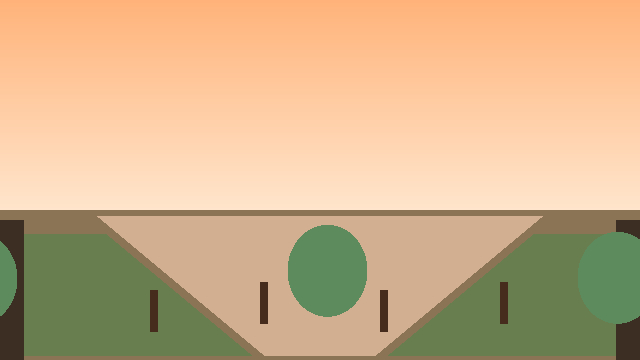
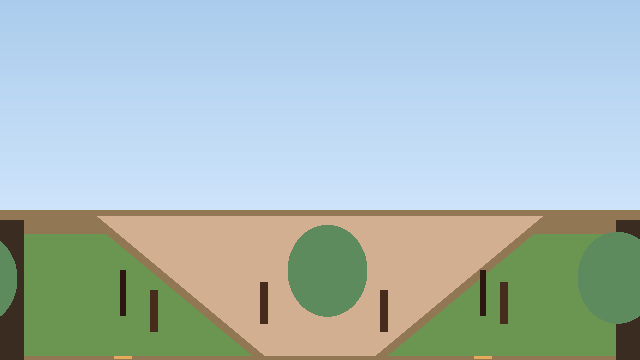
fix(alley): unified day palette + day-only drawScene + subtle lamp ground-spill

diff --git a/scripts/gen-alley-images.js b/scripts/gen-alley-images.js
@@ -70,20 +70,19 @@ function newImg() { return new Jimp({ width: W, height: H }); }
 /** Build one scene. `idx` (0..4) selects the palette/variant. */
 function drawScene(img, idx) {
   const d = img.bitmap.data;
-  // palettes per scene
-  const SKY_TOP = [[255,179,122],[138,201,214],[255,169,113],[123,141,147],[15,17,42]];
-  const SKY_BOT = [[255,229,204],[173,228,179],[255,216,168],[164,180,196],[46,58,89]];
-  const GROUND   = [[139,115,85],[89,130,95],[60,58,45],[74,87,97],[44,54,69]];
-  const GRASS    = [[104,126,78],[104,156,90],[82,98,66],[92,108,100],[58,68,78]];
-  const WOOD     = [[60,46,34],[52,58,48],[44,36,28],[48,54,60],[30,34,40]];
-  const LAMP     = [255,216,168];
-  const LAMP_POLE = [44,24,16];
-  const STAR     = [254,252,238];
+  // unified DAY palette (consistent across all 5 scenes - no muddy multi-tone)
+  const SKY_TOP  = [170, 204, 236];   // light day sky (top)
+  const SKY_BOT  = [205, 227, 250];   // near horizon
+  const GROUND   = [146, 119, 84];    // earth path base
+  const GRASS    = [107, 150, 82];    // green grass strips
+  const WOOD     = idx % 2 === 0 ? [58, 44, 32] : [120, 110, 100]; // wall texture
+  const LAMP     = [255, 228, 150];
+  const LAMP_POLE = [44, 24, 16];
 
-  const skyTop = SKY_TOP[idx], skyBot = SKY_BOT[idx], gr = GROUND[idx], ga = GRASS[idx], wd = WOOD[idx];
-  const lamp = idx === 2 || idx === 4;        // dusk / night
-  const rain = idx === 3;                    // rainy
-  const night = idx === 4;                   // night (stars)
+  const skyTop = SKY_TOP, skyBot = SKY_BOT, gr = GROUND, ga = GRASS, wd = WOOD;
+  const lamp = true;                    // day lamps (subtle)
+  const rain = false;                   // day-only (no rain)
+  const night = false;                  // day-only (no stars)
 
   // sky gradient
   vGrad(d, 0, SKY_H, skyTop, skyBot);
@@ -131,8 +130,8 @@ function drawScene(img, idx) {
       rect(d, px, py, px + 6, py + 46, LAMP_POLE);
       ellipse(d, px + 3, py + 18, 14, 18, LAMP);
       glow(d, px + 3, py + 18, 34, LAMP);
-      // ground spill
-      rect(d, px - 24, H - 6, px + 30, H - 2, LAMP);
+      // subtle amber spill (narrow wedge - not a bright cream stain)
+      rect(d, px - 6, H - 4, px + 12, H - 1, [230, 170, 90]);
     }
   }
 
